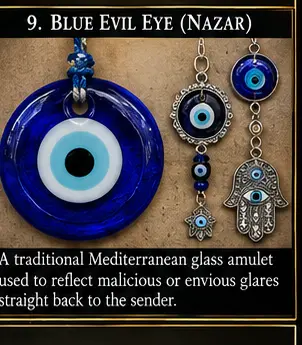
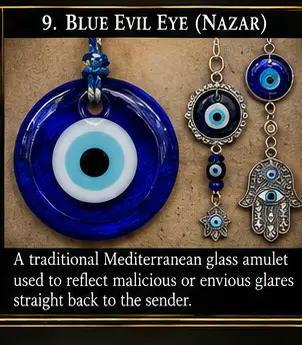
ACR Search: fix cropped text on four Symbolisms images
User reported the Hamsa image's caption text was cut off at the left
edge ("he Phoenician" instead of "The Phoenician"). Checked the other
images for the same issue and found three more with the same problem
(Blue Evil Eye, Sticking the Tongue Out, Singular Eye's leading "8."
in the header) -- all re-cropped with the left edge shifted to capture
the full caption text. No other images were affected; checked each
one directly.

File names are unchanged, only the image content, so no changes
needed to index.html.

Bumps Search/sw.js cache: acr-search-v326 -> acr-search-v327.

Claude-Session: https://claude.ai/code/session_01U5G2FGc6hBBAdkG2DYBjdW

diff --git a/Search/sw.js b/Search/sw.js
@@ -1,4 +1,4 @@
-var CACHE = 'acr-search-v326';
+var CACHE = 'acr-search-v327';
 var FILES = [
   './',
   './index.html',
